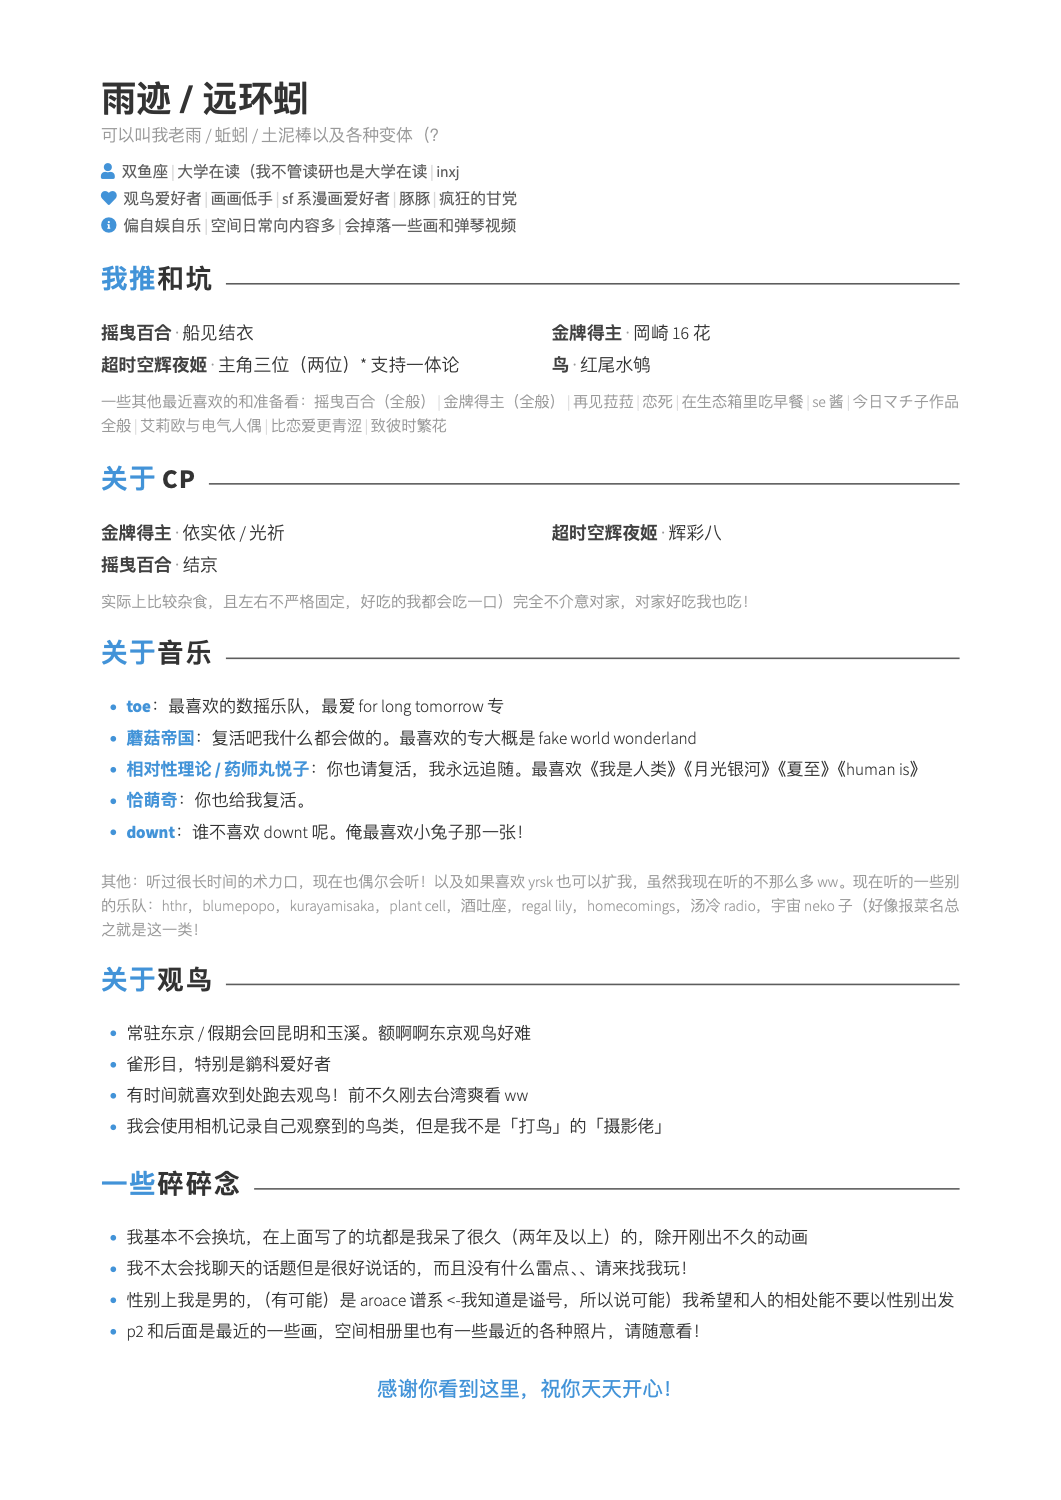
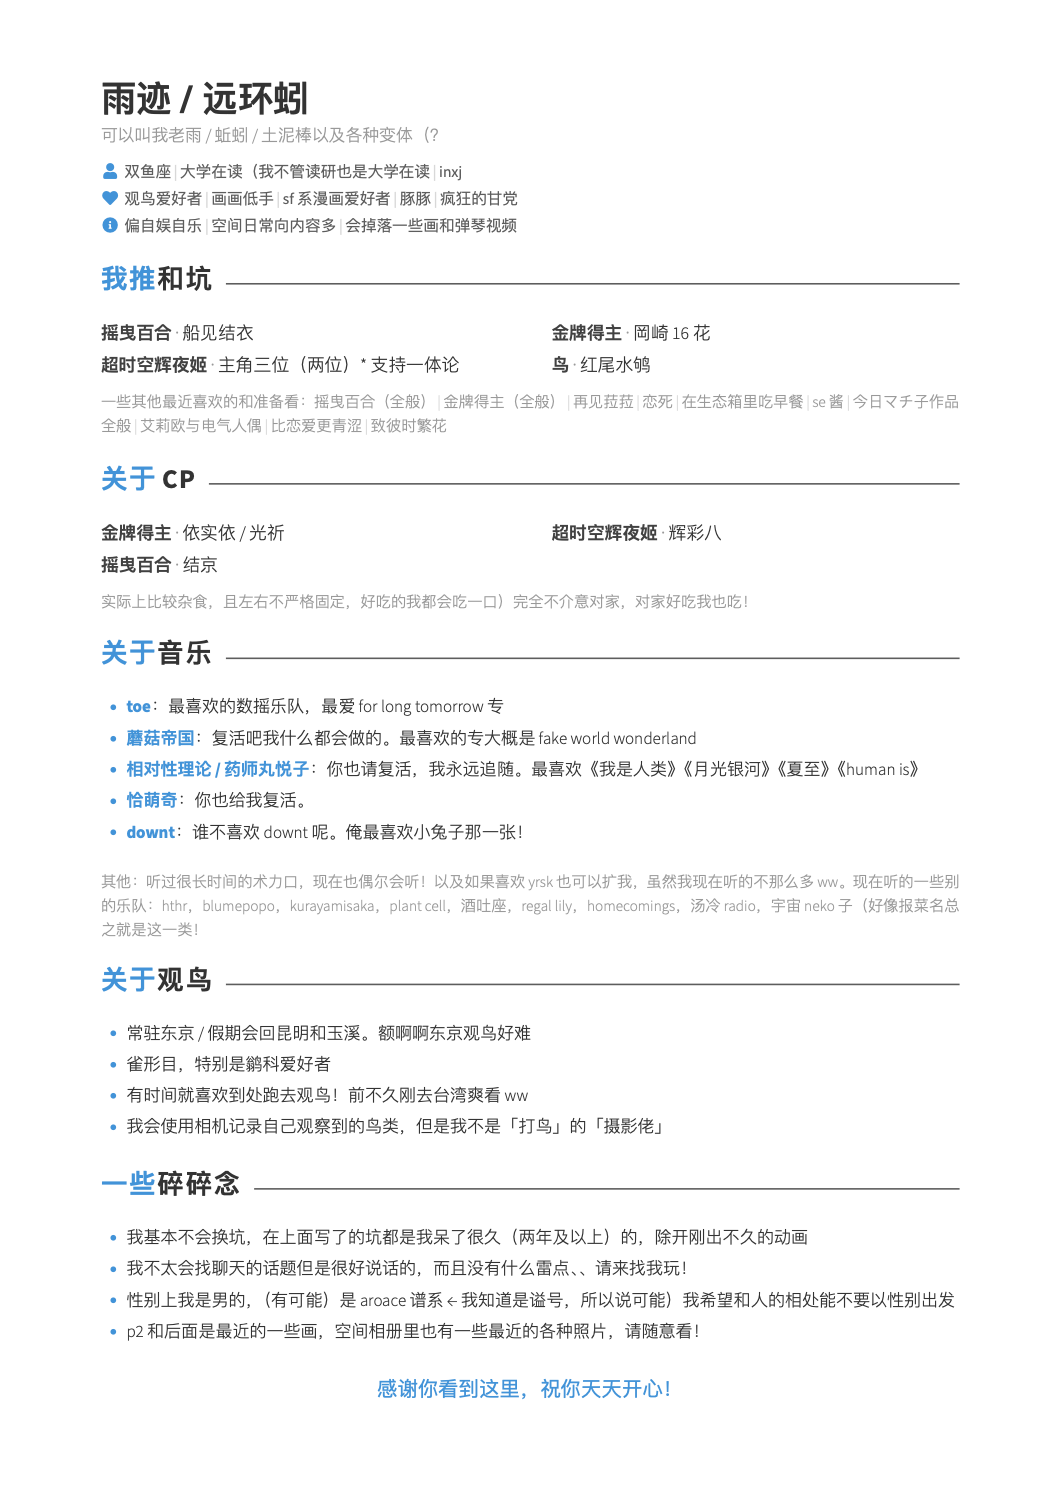
123

diff --git a/content/notes.tex b/content/notes.tex
@@ -9,7 +9,7 @@
         除开刚出不久的动画
   \item 我不太会找聊天的话题但是很好说话的，而且没有什么雷点、、请来找我玩！
   \item 性别上我是男的，（有可能）是 aroace 谱系
-        <-我知道是谥号，所以说可能）我希望和人的相处能不要以性别出发
+        ←我知道是谥号，所以说可能）我希望和人的相处能不要以性别出发
   \item p2 和后面是最近的一些画，空间相册里也有一些最近的各种照片，请随意看！
 \end{kuolieitems}
 

diff --git a/README.md b/README.md
@@ -133,8 +133,12 @@ docs/                 README 里的预览图
 | `contentsep` | 长度 | `2.4mm` | 小标题到内容 |
 | `pairsep` | 长度 | `1.5mm` | 双栏条目行距 |
 | `itemsep` | 长度 | `1.1mm` | 列表条目行距 |
+| `iconwidth` | 长度 | `1.2em` | 身份卡图标的固定框宽 |
+| `iconsep` | 长度 | `0.3em` | 图标到文字的间距 |
 
-最后四个是**竖向节奏**旋钮，排到两页时先动它们。
+`sectionsep` / `contentsep` / `pairsep` / `itemsep` 是**竖向节奏**旋钮，排到两页时先动它们。
+
+`iconwidth` 存在的原因：Font Awesome 的图标不等宽（`\faUser` 是 0.875em，`\faHeart` 是 1.0em），按自然宽度排会让每行文字的起点错开。图标被装进固定宽度的居中盒子里，所以标签块的左边缘是齐的。用了特别宽的图标（比如 `\faGamepad`）就把这个值调大。
 
 ---
 
